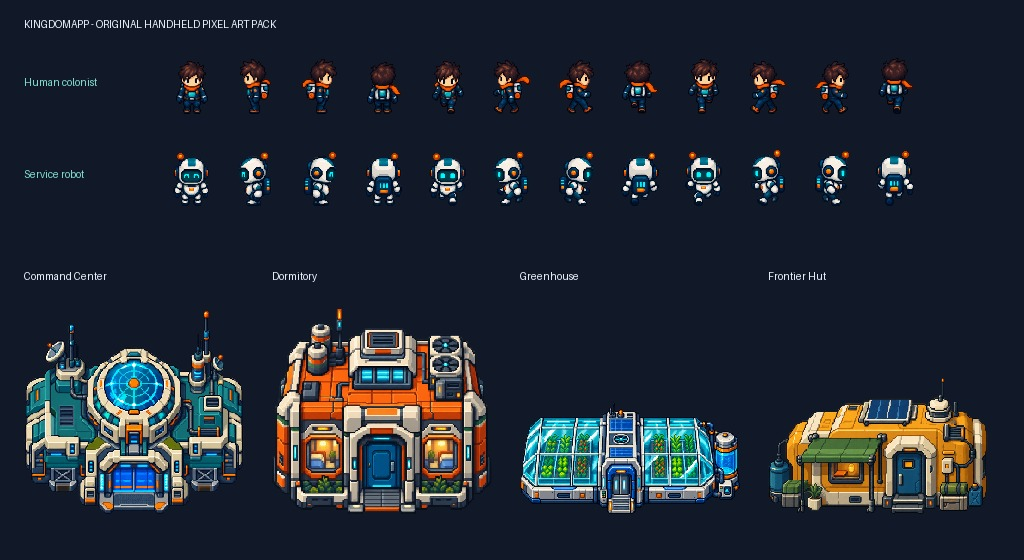
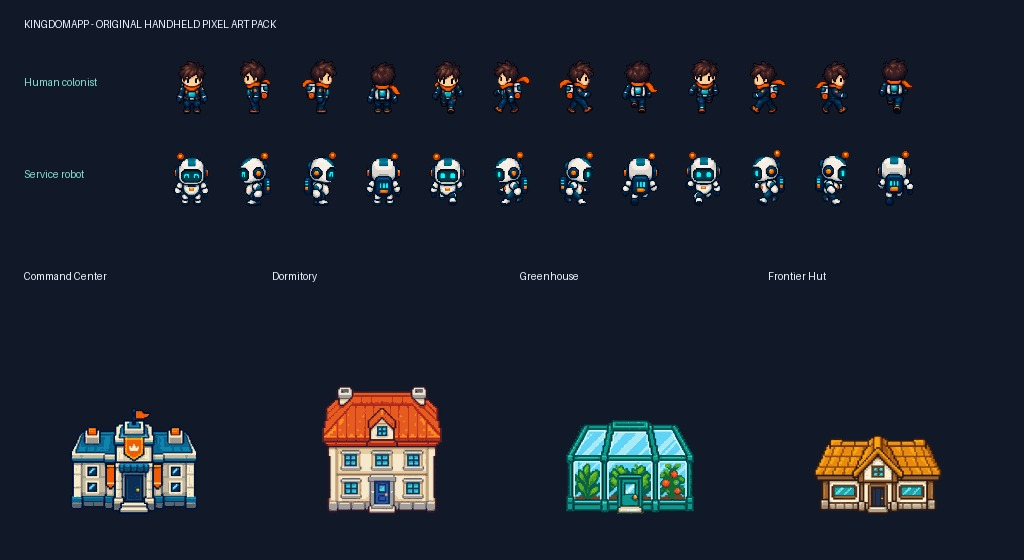
feat: simplify building art and enforce door entrances

Changed region(s): [[0.0, 0.5464, 0.7188, 0.9411], [0.75, 0.6982, 0.9688, 0.9411]]

diff --git a/src/game/commutePathsMappa.ts b/src/game/commutePathsMappa.ts
@@ -62,6 +62,25 @@ export function trovaAnchorBarSuMappa(edificiInMappa: Record<number, EdificioInC
   return null;
 }
 
+/** Unico accesso frontale: cella esterna sotto la porta centrale del footprint. */
+export function trovaCellaPortaEdificio(
+  anchor: number,
+  edificiInMappa: Record<number, EdificioInCellaLike>,
+  cols: number,
+  rows: number,
+  isWalkable: (i: number) => boolean
+): number | null {
+  const edificio = edificiInMappa[anchor];
+  const footprint = edificio?.footprint ?? { w: 1, h: 1 };
+  const anchorCol = anchor % cols;
+  const anchorRow = Math.floor(anchor / cols);
+  const doorCol = anchorCol + Math.floor(footprint.w / 2);
+  const doorRow = anchorRow + footprint.h;
+  if (doorCol < 0 || doorCol >= cols || doorRow < 0 || doorRow >= rows) return null;
+  const doorCell = doorRow * cols + doorCol;
+  return isWalkable(doorCell) ? doorCell : null;
+}
+
 /**
  * Tra i Bar operativi presenti sulla mappa, sceglie quello col percorso più breve dalla cella di partenza.
  * Se `fromCellPreferita` è null, per ogni Bar usa l’anchor del Bar come punto di partenza (stesso criterio della vecchia logica “un solo Bar”).
@@ -86,7 +105,7 @@ export function scegliEdificioIdPiuVicinoPerNome(
     const anchor = trovaAnchorEdificioGlobaleSuMappa(e.id, edificiInMappa);
     if (anchor == null) continue;
     const from = fromCellPreferita ?? anchor;
-    const path = calcolaPercorsoVersoAnchorEdificio(from, anchor, cols, rows, isWalkable);
+    const path = calcolaPercorsoVersoAnchorEdificio(from, anchor, cols, rows, isWalkable, edificiInMappa);
     if (path == null) continue;
     if (path.length < bestLen) {
       bestLen = path.length;
@@ -159,18 +178,34 @@ export function calcolaPercorsoVersoAnchorEdificio(
   anchorDest: number,
   cols: number,
   rows: number,
-  isWalkable: (i: number) => boolean
+  isWalkable: (i: number) => boolean,
+  edificiInMappa?: Record<number, EdificioInCellaLike>
 ): number[] | null {
-  const goals = new Set(
-    celleIngressoWalkableAttornoAdAnchor(anchorDest, cols, rows, isWalkable)
-  );
-  if (goals.size === 0) {
+  const portaDest = edificiInMappa
+    ? trovaCellaPortaEdificio(anchorDest, edificiInMappa, cols, rows, isWalkable)
+    : null;
+  const goals = new Set<number>();
+  if (portaDest != null) goals.add(portaDest);
+  if (!edificiInMappa) {
+    for (const cell of celleIngressoWalkableAttornoAdAnchor(anchorDest, cols, rows, isWalkable)) goals.add(cell);
+  }
+  if (goals.size === 0 && !edificiInMappa) {
     const nb = orthogonalNeighbors(anchorDest, cols, rows).filter(isWalkable);
     for (const n of nb) goals.add(n);
   }
   if (goals.size === 0) return null;
 
-  let start = scegliCellaPartenzaWalkable(fromCellPreferita, anchorDest, cols, rows, isWalkable);
+  let start: number | null = null;
+  const parteDaEdificio = !!(
+    edificiInMappa && !isWalkable(fromCellPreferita) && edificiInMappa[fromCellPreferita]
+  );
+  if (edificiInMappa && parteDaEdificio) {
+    const sourceAnchor = getAnchorCellPerEdificio(fromCellPreferita, edificiInMappa);
+    start = trovaCellaPortaEdificio(sourceAnchor, edificiInMappa, cols, rows, isWalkable);
+  } else {
+    start = scegliCellaPartenzaWalkable(fromCellPreferita, anchorDest, cols, rows, isWalkable);
+  }
+  if (parteDaEdificio && start == null) return null;
   if (start == null || !isWalkable(start)) {
     start =
       trovaCellaWalkablePiuVicina(fromCellPreferita, cols, rows, isWalkable) ??
@@ -191,7 +226,7 @@ export function pianificaCommuteVersoBarDaCella(
 ): number[] | null {
   const bAnchor = trovaAnchorEdificioGlobaleSuMappa(edificioBarGlobaleId, edificiInMappa);
   if (bAnchor == null) return null;
-  return calcolaPercorsoVersoAnchorEdificio(fromCellPreferita, bAnchor, cols, rows, isWalkable);
+  return calcolaPercorsoVersoAnchorEdificio(fromCellPreferita, bAnchor, cols, rows, isWalkable, edificiInMappa);
 }
 
 export function pianificaCommuteVersoEdificioGlobaleDaCella(
@@ -204,7 +239,7 @@ export function pianificaCommuteVersoEdificioGlobaleDaCella(
 ): number[] | null {
   const wAnchor = trovaAnchorEdificioGlobaleSuMappa(edificioGlobaleId, edificiInMappa);
   if (wAnchor == null) return null;
-  return calcolaPercorsoVersoAnchorEdificio(fromCellPreferita, wAnchor, cols, rows, isWalkable);
+  return calcolaPercorsoVersoAnchorEdificio(fromCellPreferita, wAnchor, cols, rows, isWalkable, edificiInMappa);
 }
 
 export type RisultatoCommuteMattina = {
@@ -250,7 +285,7 @@ export function pianificaCommuteMattina(
     const mAnchor = trovaAnchorEdificioGlobaleSuMappa(mensaId, edificiInMappa);
     if (mAnchor == null) return { path: null };
     const from = fromBase ?? mAnchor;
-    const path = calcolaPercorsoVersoAnchorEdificio(from, mAnchor, cols, rows, isWalkable);
+    const path = calcolaPercorsoVersoAnchorEdificio(from, mAnchor, cols, rows, isWalkable, edificiInMappa);
     return path != null ? { path, purpose: "mensa", mensaEdificioId: mensaId } : { path: null };
   };
 
@@ -268,7 +303,7 @@ export function pianificaCommuteMattina(
     const nAnchor = trovaAnchorEdificioGlobaleSuMappa(negozioId, edificiInMappa);
     if (nAnchor == null) return { path: null };
     const from = fromBase ?? nAnchor;
-    const path = calcolaPercorsoVersoAnchorEdificio(from, nAnchor, cols, rows, isWalkable);
+    const path = calcolaPercorsoVersoAnchorEdificio(from, nAnchor, cols, rows, isWalkable, edificiInMappa);
     return path != null ? { path, purpose: "negozio", negozioEdificioId: negozioId } : { path: null };
   };
 
@@ -278,7 +313,7 @@ export function pianificaCommuteMattina(
     const bAnchor = trovaAnchorEdificioGlobaleSuMappa(barId, edificiInMappa);
     if (bAnchor == null) return { path: null };
     const from = fromBase ?? bAnchor;
-    const path = calcolaPercorsoVersoAnchorEdificio(from, bAnchor, cols, rows, isWalkable);
+    const path = calcolaPercorsoVersoAnchorEdificio(from, bAnchor, cols, rows, isWalkable, edificiInMappa);
     return path != null ? { path, purpose: "bar", barEdificioId: barId } : { path: null };
   };
 
@@ -286,7 +321,7 @@ export function pianificaCommuteMattina(
     if (homeAnchor == null) return { path: null };
     const from = fromBase ?? homeAnchor;
     if (from === homeAnchor) return { path: null };
-    const path = calcolaPercorsoVersoAnchorEdificio(from, homeAnchor, cols, rows, isWalkable);
+    const path = calcolaPercorsoVersoAnchorEdificio(from, homeAnchor, cols, rows, isWalkable, edificiInMappa);
     return path != null ? { path, purpose: "home" } : { path: null };
   };
 
@@ -296,7 +331,7 @@ export function pianificaCommuteMattina(
     const wAnchor = trovaAnchorEdificioGlobaleSuMappa(lavoro.id, edificiInMappa);
     if (wAnchor == null) return { path: null };
     const from = fromBase ?? wAnchor;
-    const path = calcolaPercorsoVersoAnchorEdificio(from, wAnchor, cols, rows, isWalkable);
+    const path = calcolaPercorsoVersoAnchorEdificio(from, wAnchor, cols, rows, isWalkable, edificiInMappa);
     return path != null ? { path, purpose: "work" } : { path: null };
   };
 
@@ -312,7 +347,7 @@ export function pianificaCommuteMattina(
       const anchor = trovaAnchorEdificioGlobaleSuMappa(e.id, edificiInMappa);
       if (anchor == null) continue;
       const from = fromBase ?? anchor;
-      const path = calcolaPercorsoVersoAnchorEdificio(from, anchor, cols, rows, isWalkable);
+      const path = calcolaPercorsoVersoAnchorEdificio(from, anchor, cols, rows, isWalkable, edificiInMappa);
       if (path == null || path.length < 2) continue;
       if (path.length < bestLen) {
         bestLen = path.length;
@@ -387,7 +422,8 @@ export function pianificaCommuteSeraACasa(
   fromCell: number,
   cols: number,
   rows: number,
-  isWalkable: (i: number) => boolean
+  isWalkable: (i: number) => boolean,
+  edificiInMappa?: Record<number, EdificioInCellaLike>
 ): number[] | null {
-  return calcolaPercorsoVersoAnchorEdificio(fromCell, homeAnchor, cols, rows, isWalkable);
+  return calcolaPercorsoVersoAnchorEdificio(fromCell, homeAnchor, cols, rows, isWalkable, edificiInMappa);
 }

diff --git a/app/mappa.tsx b/app/mappa.tsx
@@ -145,9 +145,9 @@ import {
   scegliEdificioIdPiuVicinoPerNome,
   scegliLuogoCultoEdificioIdPiuVicino,
   scegliMensaEdificioIdPiuVicino,
-  trovaAnchorEdificioGlobaleSuMappa
+  trovaAnchorEdificioGlobaleSuMappa,
+  trovaCellaPortaEdificio
 } from "../src/game/commutePathsMappa";
-import { celleIngressoWalkableAttornoAdAnchor } from "../src/game/mappaPathfinding";
 import { SEZIONE_AMBIENTE, SEZIONI_COSTRUZIONE, type TerrenoCostruzioneKind } from "../src/game/costruzioneSezioni";
 import {
   costoMaterialeEdilePerFootprint,
@@ -2439,7 +2439,14 @@ function MappaScreenInner({ initialMappaState }: { initialMappaState: MappaRunti
       }
       if (dest == null) return null;
 
-      const path = calcolaPercorsoVersoAnchorEdificio(from, dest, cols, rows, isWalkableCell);
+      const path = calcolaPercorsoVersoAnchorEdificio(
+        from,
+        dest,
+        cols,
+        rows,
+        isWalkableCell,
+        target.tipo === "edificio" ? edificiInMappa : undefined
+      );
       if (!path || path.length < 2) return null;
 
       ultimoTentativoRapinaAbsRef.current.set(ab.id, oraAbs);
@@ -2590,7 +2597,7 @@ function MappaScreenInner({ initialMappaState }: { initialMappaState: MappaRunti
         };
         if (abitanteSoggettoACoprifuoco(ab, edifici, cfgCoprifuoco, cur)) {
           if (homeCell != null && from !== homeCell) {
-            const pathHome = pianificaCommuteSeraACasa(homeCell, from, cols, rows, isWalkableCell);
+            const pathHome = pianificaCommuteSeraACasa(homeCell, from, cols, rows, isWalkableCell, edificiInMappa);
             if (pathHome && pathHome.length >= 2) {
               nuove[id] = { path: pathHome, token: Date.now(), purpose: "home" };
             }
@@ -2693,7 +2700,7 @@ function MappaScreenInner({ initialMappaState }: { initialMappaState: MappaRunti
         }
 
         if (azione === "home" && homeCell != null) {
-          const pathHome = pianificaCommuteSeraACasa(homeCell, from, cols, rows, isWalkableCell);
+          const pathHome = pianificaCommuteSeraACasa(homeCell, from, cols, rows, isWalkableCell, edificiInMappa);
           if (pathHome && pathHome.length >= 2) {
             nuove[id] = { path: pathHome, token: Date.now(), purpose: "home" };
           }
@@ -2875,9 +2882,8 @@ function MappaScreenInner({ initialMappaState }: { initialMappaState: MappaRunti
       const goalLiberi = new Set<number>();
       const registraGoalsDaAnchor = (anchor: number | null) => {
         if (anchor == null) return;
-        for (const g of celleIngressoWalkableAttornoAdAnchor(anchor, cols, rows, isWalkableCell)) {
-          goalLiberi.add(g);
-        }
+        const porta = trovaCellaPortaEdificio(anchor, edificiInMappa, cols, rows, isWalkableCell);
+        if (porta != null) goalLiberi.add(porta);
       };
 
       let anchorDest: number | null = null;
@@ -2914,10 +2920,11 @@ function MappaScreenInner({ initialMappaState }: { initialMappaState: MappaRunti
           anchorDest,
           cols,
           rows,
-          isWalkableEvitandoAltri
+          isWalkableEvitandoAltri,
+          edificiInMappa
         );
         if (!path || path.length < 2) {
-          path = calcolaPercorsoVersoAnchorEdificio(from, anchorDest, cols, rows, isWalkableCell);
+          path = calcolaPercorsoVersoAnchorEdificio(from, anchorDest, cols, rows, isWalkableCell, edificiInMappa);
         }
       }
 
@@ -2987,7 +2994,7 @@ function MappaScreenInner({ initialMappaState }: { initialMappaState: MappaRunti
       // Coprifuoco: solo rientro a casa (esenti Centrale).
       if (abitanteSoggettoACoprifuoco(a, edifici, cfgCoprifuoco, orologioMinuti)) {
         if (homeCell != null && from !== homeCell) {
-          const path = pianificaCommuteSeraACasa(homeCell, from, cols, rows, isWalkableCell);
+          const path = pianificaCommuteSeraACasa(homeCell, from, cols, rows, isWalkableCell, edificiInMappa);
           if (path && path.length >= 2) {
             nuoveCommuteById[a.id] = { path, token: Date.now(), purpose: "home" };
           }
@@ -3135,7 +3142,7 @@ function MappaScreenInner({ initialMappaState }: { initialMappaState: MappaRunti
       }
 
       if (azione === "home" && homeCell != null) {
-        const path = pianificaCommuteSeraACasa(homeCell, from, cols, rows, isWalkableCell);
+        const path = pianificaCommuteSeraACasa(homeCell, from, cols, rows, isWalkableCell, edificiInMappa);
         if (!path || path.length < 2) continue;
         nuoveCommuteById[a.id] = { path, token: Date.now(), purpose: "home" };
       }
@@ -3331,7 +3338,7 @@ function MappaScreenInner({ initialMappaState }: { initialMappaState: MappaRunti
         const home = cellaCasaPerAbitanteId.get(a.id);
         if (home == null) continue;
         const from = ultimaCellaAbitanteRef.current.get(a.id) ?? home;
-        const path = pianificaCommuteSeraACasa(home, from, cols, rows, isWalkableCell);
+        const path = pianificaCommuteSeraACasa(home, from, cols, rows, isWalkableCell, edificiInMappa);
         if (path && path.length >= 2) {
           next[a.id] = { path, token: Date.now(), purpose: "home" };
         } else {

diff --git a/tests/commute-building-door.test.ts b/tests/commute-building-door.test.ts
@@ -1,0 +1,62 @@
+import assert from "node:assert/strict";
+import test from "node:test";
+
+import {
+  calcolaPercorsoVersoAnchorEdificio,
+  trovaCellaPortaEdificio,
+  type EdificioInCellaLike
+} from "../src/game/commutePathsMappa.ts";
+
+const cols = 6;
+const rows = 6;
+
+function edificio2x2(anchor: number, nome: string): Record<number, EdificioInCellaLike> {
+  return {
+    [anchor]: { id: anchor, nome, footprint: { w: 2, h: 2 } },
+    [anchor + 1]: { id: anchor, nome, footprintRef: anchor },
+    [anchor + cols]: { id: anchor, nome, footprintRef: anchor },
+    [anchor + cols + 1]: { id: anchor, nome, footprintRef: anchor }
+  };
+}
+
+test("la porta è l'unica cella d'ingresso e si trova davanti al centro del footprint", () => {
+  const edifici = edificio2x2(7, "Dormitorio");
+  const isWalkable = (cell: number) => edifici[cell] == null;
+
+  assert.equal(trovaCellaPortaEdificio(7, edifici, cols, rows, isWalkable), 20);
+  const path = calcolaPercorsoVersoAnchorEdificio(24, 7, cols, rows, isWalkable, edifici);
+  assert.ok(path);
+  assert.equal(path.at(-1), 20);
+  assert.notEqual(path.at(-1), 18);
+  assert.notEqual(path.at(-1), 21);
+});
+
+test("un abitante esce dalla stessa porta e non da un lato casuale", () => {
+  const sorgente = edificio2x2(7, "Dormitorio");
+  const destinazione = edificio2x2(10, "Serra");
+  const edifici = { ...sorgente, ...destinazione };
+  const isWalkable = (cell: number) => cell >= 0 && cell < cols * rows && edifici[cell] == null;
+
+  const path = calcolaPercorsoVersoAnchorEdificio(7, 10, cols, rows, isWalkable, edifici);
+  assert.ok(path);
+  assert.equal(path[0], 20);
+  assert.equal(path.at(-1), 23);
+});
+
+test("se la cella davanti alla porta è bloccata l'edificio non è accessibile da altri lati", () => {
+  const edifici = edificio2x2(7, "Dormitorio");
+  const isWalkable = (cell: number) => edifici[cell] == null && cell !== 20;
+
+  assert.equal(trovaCellaPortaEdificio(7, edifici, cols, rows, isWalkable), null);
+  assert.equal(calcolaPercorsoVersoAnchorEdificio(24, 7, cols, rows, isWalkable, edifici), null);
+});
+
+test("se la porta di partenza è bloccata l'abitante non esce attraversando una parete", () => {
+  const sorgente = edificio2x2(7, "Dormitorio");
+  const destinazione = edificio2x2(10, "Serra");
+  const edifici = { ...sorgente, ...destinazione };
+  const isWalkable = (cell: number) =>
+    cell >= 0 && cell < cols * rows && edifici[cell] == null && cell !== 20;
+
+  assert.equal(calcolaPercorsoVersoAnchorEdificio(7, 10, cols, rows, isWalkable, edifici), null);
+});

diff --git a/scripts/prepare_pixel_art_assets.py b/scripts/prepare_pixel_art_assets.py
@@ -56,13 +56,16 @@ def normalize_character(source: Path, destination: Path) -> Image.Image:
 
 def normalize_building(source: Path, destination: Path) -> Image.Image:
     image = Image.open(source).convert("RGBA")
+    alpha = image.getchannel("A").point(lambda value: 255 if value >= 96 else 0)
+    image.putalpha(alpha)
     image = image.crop(visible_bbox(image))
-    max_side = 256
+    max_side = 128
     scale = min(max_side / image.width, max_side / image.height)
     resized = image.resize(
         (max(1, round(image.width * scale)), max(1, round(image.height * scale))),
-        Image.Resampling.NEAREST,
+        Image.Resampling.LANCZOS,
     )
+    resized = resized.quantize(colors=48, method=Image.Quantize.FASTOCTREE, dither=Image.Dither.NONE).convert("RGBA")
     destination.parent.mkdir(parents=True, exist_ok=True)
     resized.save(destination, optimize=True)
     return resized
